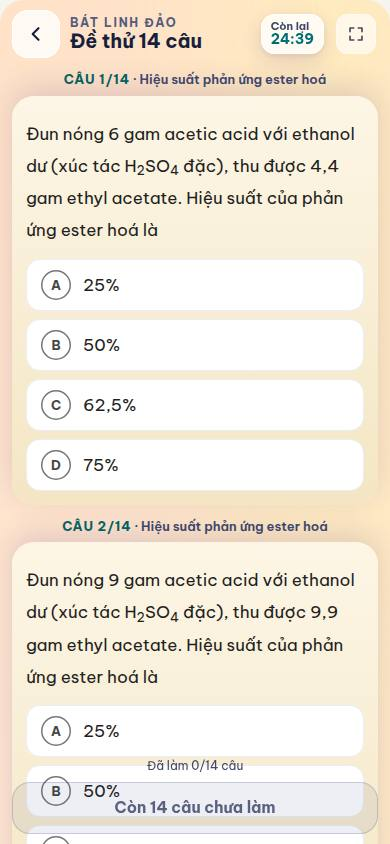
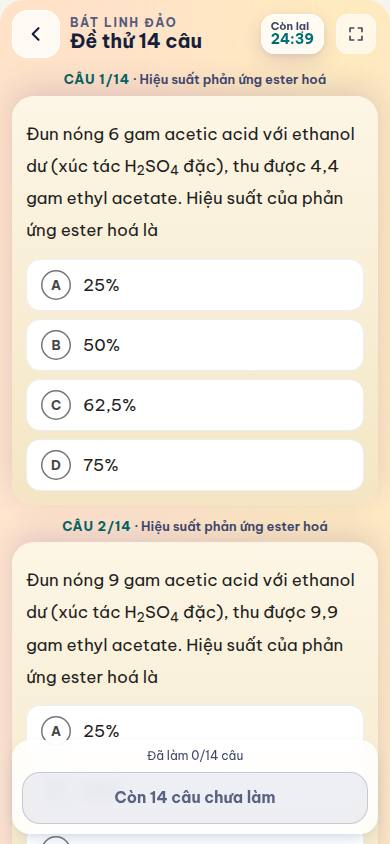
OMNI 3 · Đề thử: thanh nộp nổi ở đáy có nền mờ đục (chữ thẻ câu không còn hiện xuyên qua nút khoá)
Nguyên nhân gốc: thanh nộp của đề thử nổi suốt lúc làm (data-noi), nút còn khoá có nền gần trong suốt (--d2-tat-nen) và dòng
"Đã làm n/N câu" không có nền ⇒ chữ câu bên dưới đè lên. Chỉ thêm tấm nền cho thanh trong đề thử; chữ, nút, vị trí giữ nguyên.

Claude-Session: https://claude.ai/code/session_01CNsQjeB4jcWjbMohw272Tz

Changed region(s): [[0.0308, 0.8626, 0.9846, 1.0]]

diff --git a/src/game/than-thu-v2/dao2/dao2.css b/src/game/than-thu-v2/dao2/dao2.css
@@ -505,3 +505,7 @@ html.may-yeu .dao2 .dao2-3d-bot,html.may-yeu .dao2 .dao2-3d-cuon,html.may-yeu .d
  * ⇒ trên thẻ lời giải sáng của Đảo 2.0 chữ vàng trên nền kem gần như không đọc được, trông như nút bị khoá (bản build thật, ảnh chụp 05/10).
  * Đặc hiệu 0,4,1 thắng `.dao.dao button.lg-nut--hoi` (0,3,1) bất kể tệp nào nạp trước. Chỉ đổi màu; cỡ, chữ, vị trí giữ nguyên. */
 .dao.dao2.dao-v2 button.lg-nut--hoi{--nut-nen:rgb(214,240,238);--nut-chu:rgb(10,90,96);--nut-bong:inset 0 0 0 1px rgb(150,210,210)}
+/* ĐỀ THỬ (05/10): thanh nộp NỔI ở đáy suốt lúc làm (data-noi) — nút còn khoá có nền gần trong suốt (--d2-tat-nen) và dòng "Đã làm n/N câu"
+ * không có nền ⇒ chữ thẻ câu bên dưới hiện xuyên qua, đè lên nhau (ảnh chụp 05/10). Ở ải thường thanh chỉ nổi khi đã chọn đáp án nên không gặp.
+ * Cho thanh một tấm nền mờ đục như thẻ; chữ, nút, vị trí giữ nguyên. */
+.dao2 .dao2-de-thu[data-pha="lam"] > .dao2-chan[data-noi]{background:var(--d2-bot);-webkit-backdrop-filter:blur(8px);backdrop-filter:blur(8px);border-radius:18px;padding:8px 10px 10px;box-shadow:0 6px 18px -8px var(--d2-bong-dao)}
